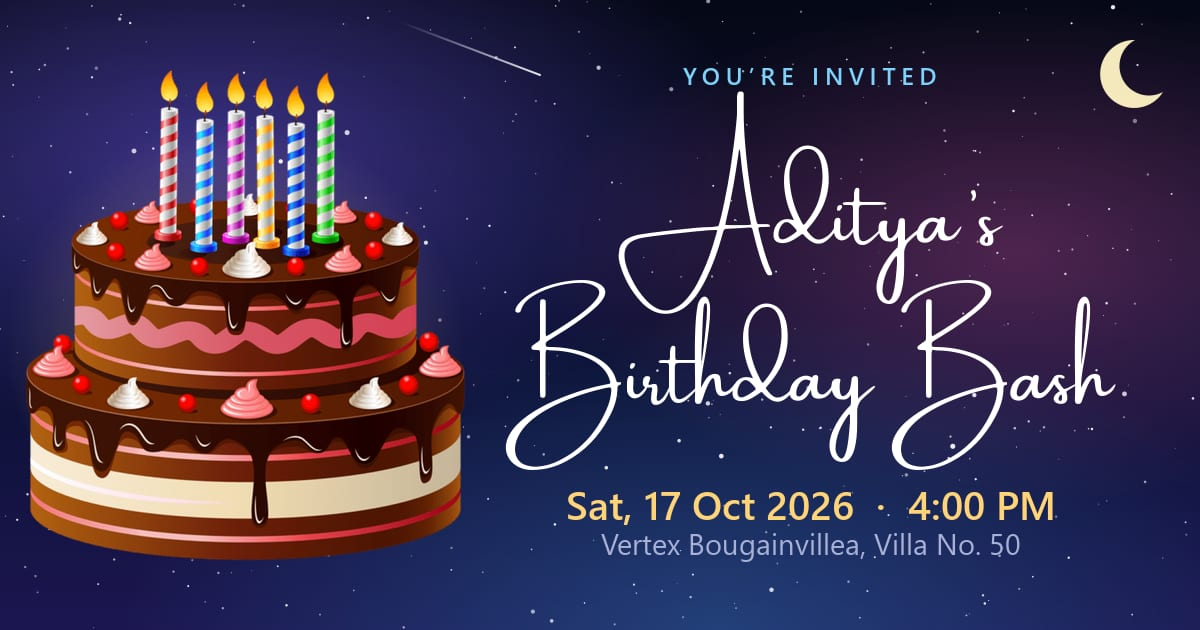
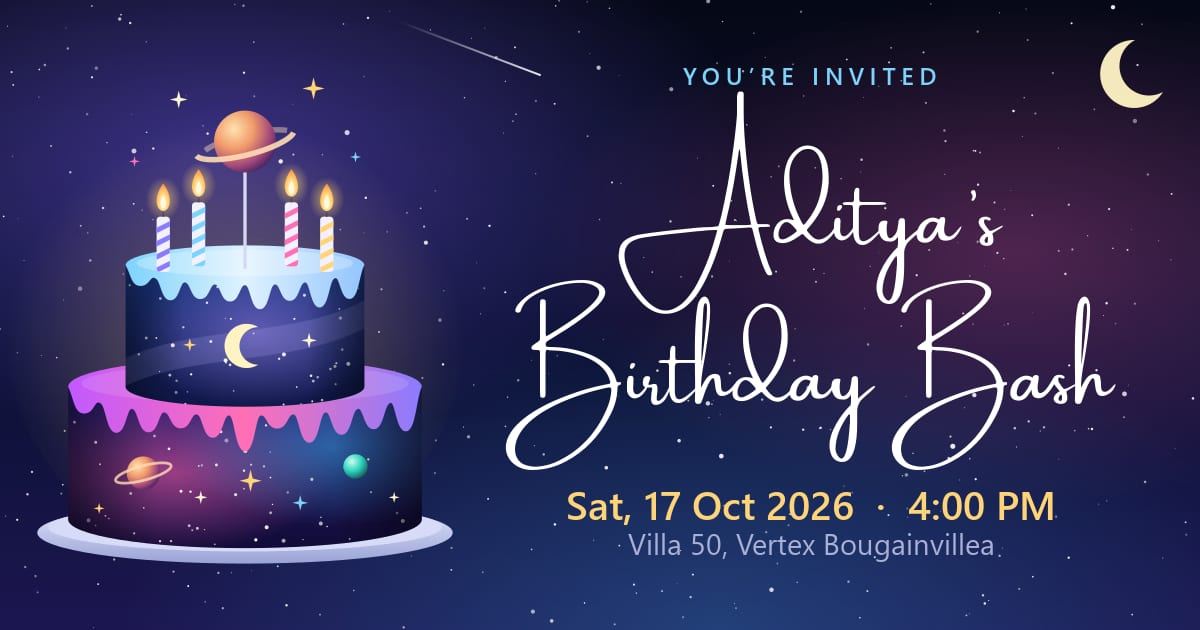
space themed cake

Changed region(s): [[0.0, 0.1206, 0.4008, 0.9048], [0.4933, 0.8444, 0.8633, 0.9048]]

diff --git a/index.html b/index.html
@@ -16,7 +16,7 @@
 	<meta property="og:url" content="https://adityainvite.netlify.app/">
 	<meta property="og:site_name" content="Aditya Birthday Invitation">
 	<meta property="og:title" content="You're invited to Aditya's Birthday Bash 🎂">
-	<meta property="og:description" content="Sat, 17 Oct 2026 at 4:00 PM · Vertex Bougainvillea, Villa No. 50. Cake, music and celebration!">
+	<meta property="og:description" content="Sat, 17 Oct 2026 at 4:00 PM · Villa 50, Vertex Bougainvillea. Cake, music and celebration!">
 	<!-- 1200x630 and well under 300 KB so WhatsApp shows the large preview -->
 	<meta property="og:image" content="https://adityainvite.netlify.app/images/og-invite.jpg" />
 	<meta property="og:image:secure_url" content="https://adityainvite.netlify.app/images/og-invite.jpg" />
@@ -26,7 +26,8 @@
 	<meta property="og:image:alt" content="Aditya's Birthday Bash, Sat 17 Oct 2026, 4:00 PM at Vertex Bougainvillea">
 	<meta name="twitter:card" content="summary_large_image">
 	<meta name="twitter:image" content="https://adityainvite.netlify.app/images/og-invite.jpg">
-	<link rel="icon" type="image/png" href="cake_6.png" />
+	<link rel="icon" type="image/svg+xml" href="images/space-cake.svg" />
+	<link rel="alternate icon" type="image/png" href="cake_6.png" />
 
 	<link rel="preconnect" href="https://fonts.googleapis.com">
 	<link rel="preconnect" href="https://fonts.gstatic.com" crossorigin>
@@ -72,8 +73,12 @@
 					<div class="col-md-12 text-center">
 						<div class="display-t">
 							<div class="display-tc animate-box" data-animate-effect="fadeIn">
-								<h1>Aditya's Birthday Bash</h1>
-								<img class="hero-cake" src="images/cake_6.png" alt="" width="200" height="200">
+								<h1>
+									<span class="title-lead">Join us under the stars</span>
+									<span class="title-for">for</span>
+									<span class="title-name">Aditya's <span class="nowrap">Birthday Bash</span></span>
+								</h1>
+								<img class="hero-cake" src="images/space-cake.svg" alt="" width="200" height="235">
 								<h2>Saturday, 17 October 2026 &middot; 4:00 PM</h2>
 								<h2>Join us for a night of cake, music, and unforgettable memories with friends and
 									family.</h2>
@@ -126,14 +131,14 @@
 								</div>
 								<div class="event-col">
 									<i class="icon-map"></i>
-									<span>Vertex Bougainvillea, Villa No. 50</span>
+									<span>Villa 50, Vertex Bougainvillea</span>
 								</div>
 							</div>
 							<p>Get ready for an evening of laughter, delicious cake, music, and celebration.</p>
 
 							<div class="event-actions">
 								<a class="btn btn-primary" target="_blank" rel="noopener"
-									href="https://calendar.google.com/calendar/render?action=TEMPLATE&amp;text=Aditya%27s%20Birthday%20Bash&amp;dates=20261017T103000Z%2F20261017T163000Z&amp;details=Cake%2C%20music%20and%20celebration%20with%20Aditya!%20https%3A%2F%2Fadityainvite.netlify.app%2F&amp;location=Vertex%20Bougainvillea%2C%20Villa%20No.%2050"><i
+									href="https://calendar.google.com/calendar/render?action=TEMPLATE&amp;text=Aditya%27s%20Birthday%20Bash&amp;dates=20261017T103000Z%2F20261017T163000Z&amp;details=Cake%2C%20music%20and%20celebration%20with%20Aditya!%20https%3A%2F%2Fadityainvite.netlify.app%2F&amp;location=Villa%2050%2C%20Vertex%20Bougainvillea"><i
 										class="icon-calendar"></i> Google Calendar</a>
 								<a class="btn btn-primary" href="aditya-birthday.ics" download><i
 										class="icon-calendar"></i> Apple / Outlook</a>

diff --git a/css/space.css b/css/space.css
@@ -171,13 +171,13 @@ body {
 }
 @media screen and (max-width: 768px) {
   .planet {
-    top: 9%;
-    left: -24px;
+    top: 3%;
+    left: -30px;
     scale: 0.55;
   }
   .moon {
-    top: 11%;
-    right: 6%;
+    top: 4%;
+    right: 4%;
     scale: 0.7;
   }
 }
@@ -339,5 +339,50 @@ body {
   .hero-cake,
   .planet {
     animation: none;
+  }
+}
+
+/* Hero heading: "Join us under the stars" / "for" / "Aditya's Birthday Bash",
+   all in the script font, each on its own centred line */
+#fh5co-header .display-tc h1 > span {
+  display: block;
+  text-align: center;
+}
+#fh5co-header .display-tc h1 .nowrap {
+  white-space: nowrap;
+}
+#fh5co-header .display-tc h1 {
+  padding-bottom: 0.2em;
+}
+#fh5co-header .display-tc h1 .title-lead {
+  font-size: 0.72em;
+  line-height: 1.5;
+}
+#fh5co-header .display-tc h1 .title-for {
+  font-size: 0.62em;
+  line-height: 1.3;
+  margin: 0.1em 0 0.5em;
+  color: var(--cyan);
+  text-shadow: 0 0 12px rgba(125, 211, 252, 0.7);
+}
+#fh5co-header .display-tc h1 .title-name {
+  line-height: 1.45;
+  /* The script capitals' swashes rise well above the line box */
+  padding-top: 0.35em;
+}
+@media screen and (max-width: 480px) {
+  /* Long script swashes need more room once the name wraps */
+  #fh5co-header .display-tc h1 .title-lead {
+    font-size: 0.8em;
+  }
+  #fh5co-header .display-tc h1 .title-name {
+    font-size: 1.15em;
+    line-height: 1.9;
+  }
+}
+@media screen and (max-width: 380px) {
+  /* Keep "Birthday Bash" on one line on small phones */
+  #fh5co-header .display-tc h1 .title-name {
+    font-size: 0.95em;
   }
 }

diff --git a/README.md b/README.md
@@ -1,6 +1,6 @@
 # Aditya's Birthday Bash
 
-A one-page invitation for Aditya's birthday party: Saturday, 17 October 2026, 4:00 PM at Vertex Bougainvillea, Villa No. 50.
+A one-page invitation for Aditya's birthday party: Saturday, 17 October 2026, 4:00 PM at Villa 50, Vertex Bougainvillea.
 
 Live at https://adityainvite.netlify.app/
 
